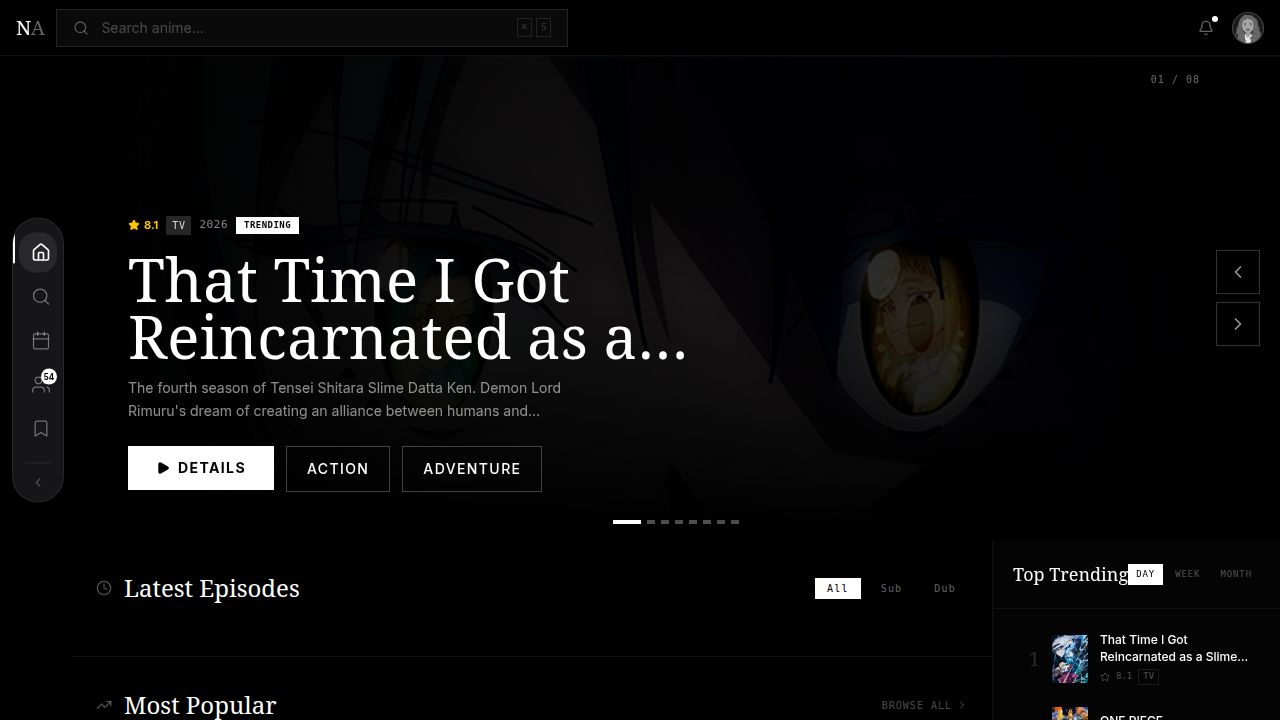
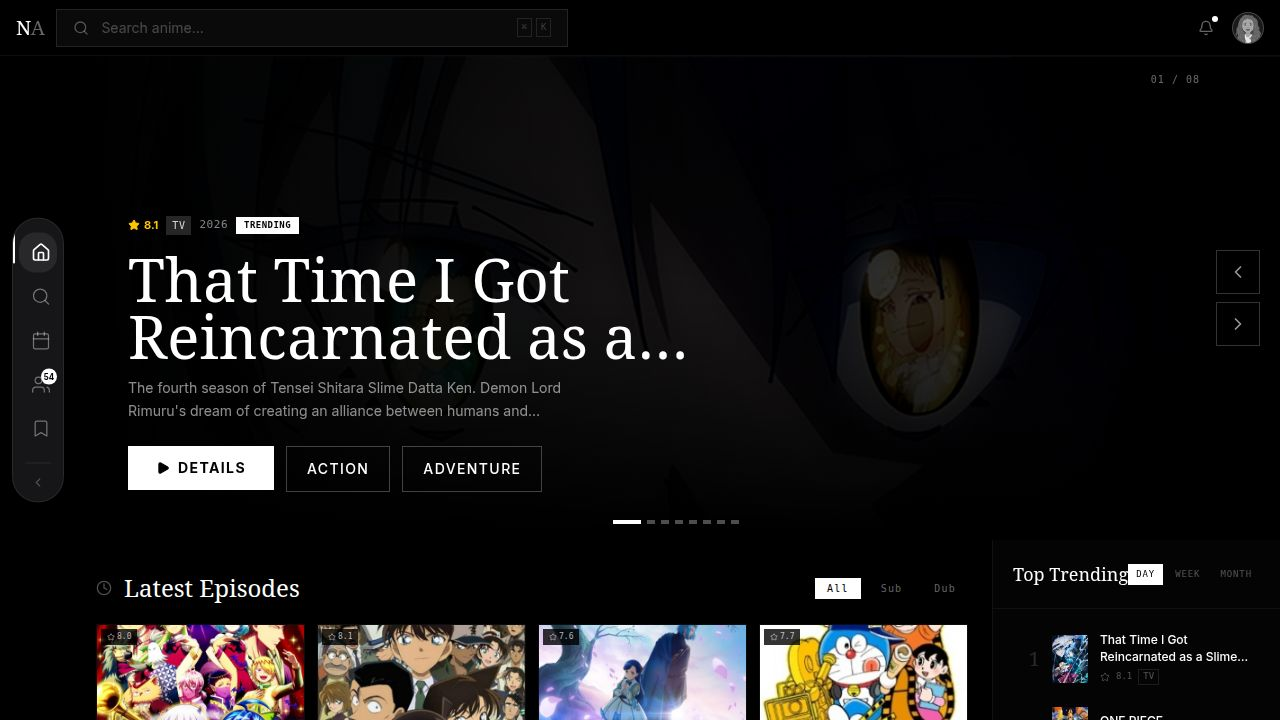
Show recently aired episodes using AniList data
Replace the backend API call for "Latest Episodes" with a direct AniList GraphQL query for recently aired episodes, mirroring the approach used for other sections.

Replit-Commit-Author: Agent
Replit-Commit-Session-Id: 6bda84ba-35ca-48a0-90ba-a8e42ccf16f5
Replit-Commit-Checkpoint-Type: full_checkpoint
Replit-Commit-Event-Id: b69f1269-e365-4ac9-9329-054ed15be365
Replit-Commit-Screenshot-Url: https://storage.googleapis.com/screenshot-production-us-central1/24644857-70e3-4ff9-b80c-5b41abe323e6/6bda84ba-35ca-48a0-90ba-a8e42ccf16f5/ewRvxjt
Replit-Helium-Checkpoint-Created: true

Changed region(s): [[0.0625, 0.8556, 0.7812, 1.0]]

diff --git a/artifacts/anime-site/src/pages/home.tsx b/artifacts/anime-site/src/pages/home.tsx
@@ -2,10 +2,7 @@ import { motion, AnimatePresence } from "framer-motion";
 import { Link } from "wouter";
 import { Play, Star, Clock, ChevronRight, TrendingUp, ChevronLeft } from "lucide-react";
 import { useState, useEffect, useCallback, useRef } from "react";
-import { useGetNewReleases } from "@workspace/api-client-react";
 import { AnimeCardSkeleton } from "@/components/anime-card";
-import { useQuery } from "@tanstack/react-query";
-import { getListEpisodesQueryKey } from "@workspace/api-client-react";
 
 const stagger = { hidden: {}, show: { transition: { staggerChildren: 0.05 } } };
 const fadeUp = { hidden: { opacity: 0, y: 12 }, show: { opacity: 1, y: 0, transition: { duration: 0.4 } } };
@@ -68,6 +65,53 @@ const POPULAR_QUERY = `{
     }
   }
 }`;
+
+const RECENT_EPISODES_QUERY = `{
+  Page(perPage: 24) {
+    airingSchedules(
+      airingAt_lesser: ${Math.floor(Date.now() / 1000)}
+      sort: TIME_DESC
+      notYetAired: false
+    ) {
+      id
+      episode
+      airingAt
+      media {
+        id
+        title { romaji english }
+        coverImage { extraLarge large }
+        averageScore
+        format
+        isAdult
+      }
+    }
+  }
+}`;
+
+interface AiringEpisode {
+  id: number;
+  episode: number;
+  airingAt: number;
+  media: {
+    id: number;
+    title: { romaji: string; english?: string | null };
+    coverImage: { extraLarge?: string; large?: string };
+    averageScore?: number | null;
+    format?: string | null;
+    isAdult: boolean;
+  };
+}
+
+async function fetchRecentEpisodes(): Promise<AiringEpisode[]> {
+  const res = await fetch("https://graphql.anilist.co", {
+    method: "POST",
+    headers: { "Content-Type": "application/json" },
+    body: JSON.stringify({ query: RECENT_EPISODES_QUERY }),
+  });
+  const json = await res.json();
+  const schedules: AiringEpisode[] = json?.data?.Page?.airingSchedules ?? [];
+  return schedules.filter((s) => !s.media.isAdult);
+}
 
 function stripHtml(html: string): string {
   return html
@@ -218,15 +262,19 @@ export default function Home() {
 
   const [heroAnime, setHeroAnime] = useState<AniMedia[]>([]);
   const [popularAnime, setPopularAnime] = useState<AniMedia[]>([]);
+  const [recentEpisodes, setRecentEpisodes] = useState<AiringEpisode[]>([]);
   const [aniLoading, setAniLoading] = useState(true);
-
-  const { data: newReleases, isLoading: newLoading } = useGetNewReleases();
 
   useEffect(() => {
     setAniLoading(true);
-    Promise.all([fetchAniList(HERO_QUERY), fetchAniList(POPULAR_QUERY)]).then(([hero, popular]) => {
+    Promise.all([
+      fetchAniList(HERO_QUERY),
+      fetchAniList(POPULAR_QUERY),
+      fetchRecentEpisodes(),
+    ]).then(([hero, popular, recent]) => {
       setHeroAnime(hero.filter((m) => m.bannerImage));
       setPopularAnime(popular);
+      setRecentEpisodes(recent);
       setAniLoading(false);
     });
   }, []);
@@ -265,13 +313,6 @@ export default function Home() {
   };
 
   const currentAnime = slides[slide];
-  // We still use DB episodes for the "Latest Episodes" section
-  const { data: slideEpisodes } = useQuery({
-    queryKey: getListEpisodesQueryKey(0),
-    queryFn: () => Promise.resolve([]),
-    enabled: false,
-  });
-  void slideEpisodes;
 
   return (
     <div className="min-h-screen bg-black text-white">
@@ -338,7 +379,7 @@ export default function Home() {
 
       <div className="flex gap-0 items-start">
         <div className="flex-1 min-w-0">
-          {/* Latest Episodes from DB */}
+          {/* Latest Episodes — from AniList airing schedules */}
           <section className="px-4 sm:px-6 py-6 sm:py-8 border-b border-white/5">
             <div className="flex items-center justify-between mb-4 sm:mb-5">
               <div className="flex items-center gap-2 sm:gap-3">
@@ -352,37 +393,42 @@ export default function Home() {
               </div>
             </div>
             <motion.div variants={stagger} initial="hidden" animate="show" className="grid grid-cols-2 sm:grid-cols-3 lg:grid-cols-4 gap-2 sm:gap-3">
-              {newLoading
+              {aniLoading
                 ? Array.from({ length: 8 }).map((_, i) => <AnimeCardSkeleton key={i} />)
-                : (Array.isArray(newReleases) ? newReleases : []).slice(0, 8).map((ep) => (
-                    <motion.div key={ep.id} variants={fadeUp}>
-                      <Link href={`/watch/${ep.id}`}>
-                        <div className="group cursor-pointer border border-white/5 hover:border-white/20 transition-all overflow-hidden" data-testid={`ep-card-${ep.id}`}>
-                          <div className="relative aspect-video overflow-hidden">
-                            <img src={ep.thumbnailUrl} alt={ep.title} className="w-full h-full object-cover transition-all duration-500 group-hover:scale-105" />
-                            <div className="absolute inset-0 flex items-center justify-center opacity-0 group-hover:opacity-100 transition-opacity bg-black/40">
-                              <Play className="w-6 h-6 text-white fill-white" />
-                            </div>
-                            <div className="absolute bottom-1 right-1">
-                              <span className="text-[8px] font-mono bg-black/80 text-white/60 px-1.5 py-0.5 uppercase">{ep.type}</span>
-                            </div>
-                            {ep.rating && (
-                              <div className="absolute top-1 left-1">
-                                <span className="flex items-center gap-0.5 text-[8px] font-mono bg-black/80 text-white/70 px-1.5 py-0.5">
-                                  <Star className="w-2 h-2" />{ep.rating.toFixed(1)}
-                                </span>
+                : recentEpisodes.slice(0, 8).map((ep) => {
+                    const title = ep.media.title.english || ep.media.title.romaji;
+                    const cover = ep.media.coverImage.extraLarge || ep.media.coverImage.large || "";
+                    const score = ep.media.averageScore ? (ep.media.averageScore / 10).toFixed(1) : null;
+                    return (
+                      <motion.div key={ep.id} variants={fadeUp}>
+                        <Link href={`/anime/al/${ep.media.id}`}>
+                          <div className="group cursor-pointer border border-white/5 hover:border-white/20 transition-all overflow-hidden">
+                            <div className="relative aspect-video overflow-hidden">
+                              <img src={cover} alt={title} className="w-full h-full object-cover transition-all duration-500 group-hover:scale-105" />
+                              <div className="absolute inset-0 flex items-center justify-center opacity-0 group-hover:opacity-100 transition-opacity bg-black/40">
+                                <Play className="w-6 h-6 text-white fill-white" />
                               </div>
-                            )}
+                              <div className="absolute bottom-1 right-1">
+                                <span className="text-[8px] font-mono bg-black/80 text-white/60 px-1.5 py-0.5 uppercase">SUB</span>
+                              </div>
+                              {score && (
+                                <div className="absolute top-1 left-1">
+                                  <span className="flex items-center gap-0.5 text-[8px] font-mono bg-black/80 text-white/70 px-1.5 py-0.5">
+                                    <Star className="w-2 h-2" />{score}
+                                  </span>
+                                </div>
+                              )}
+                            </div>
+                            <div className="p-2 sm:p-2.5">
+                              <p className="text-[9px] font-mono text-white/30 uppercase tracking-widest truncate mb-0.5">{title}</p>
+                              <p className="text-white text-xs font-medium line-clamp-2 leading-snug">Episode {ep.episode}</p>
+                              <p className="text-white/30 text-[9px] font-mono mt-1">EP {ep.episode}</p>
+                            </div>
                           </div>
-                          <div className="p-2 sm:p-2.5">
-                            <p className="text-[9px] font-mono text-white/30 uppercase tracking-widest truncate mb-0.5">{ep.animeTitle}</p>
-                            <p className="text-white text-xs font-medium line-clamp-2 leading-snug">{ep.title}</p>
-                            <p className="text-white/30 text-[9px] font-mono mt-1">EP {ep.episodeNumber}</p>
-                          </div>
-                        </div>
-                      </Link>
-                    </motion.div>
-                  ))}
+                        </Link>
+                      </motion.div>
+                    );
+                  })}
             </motion.div>
           </section>
 
